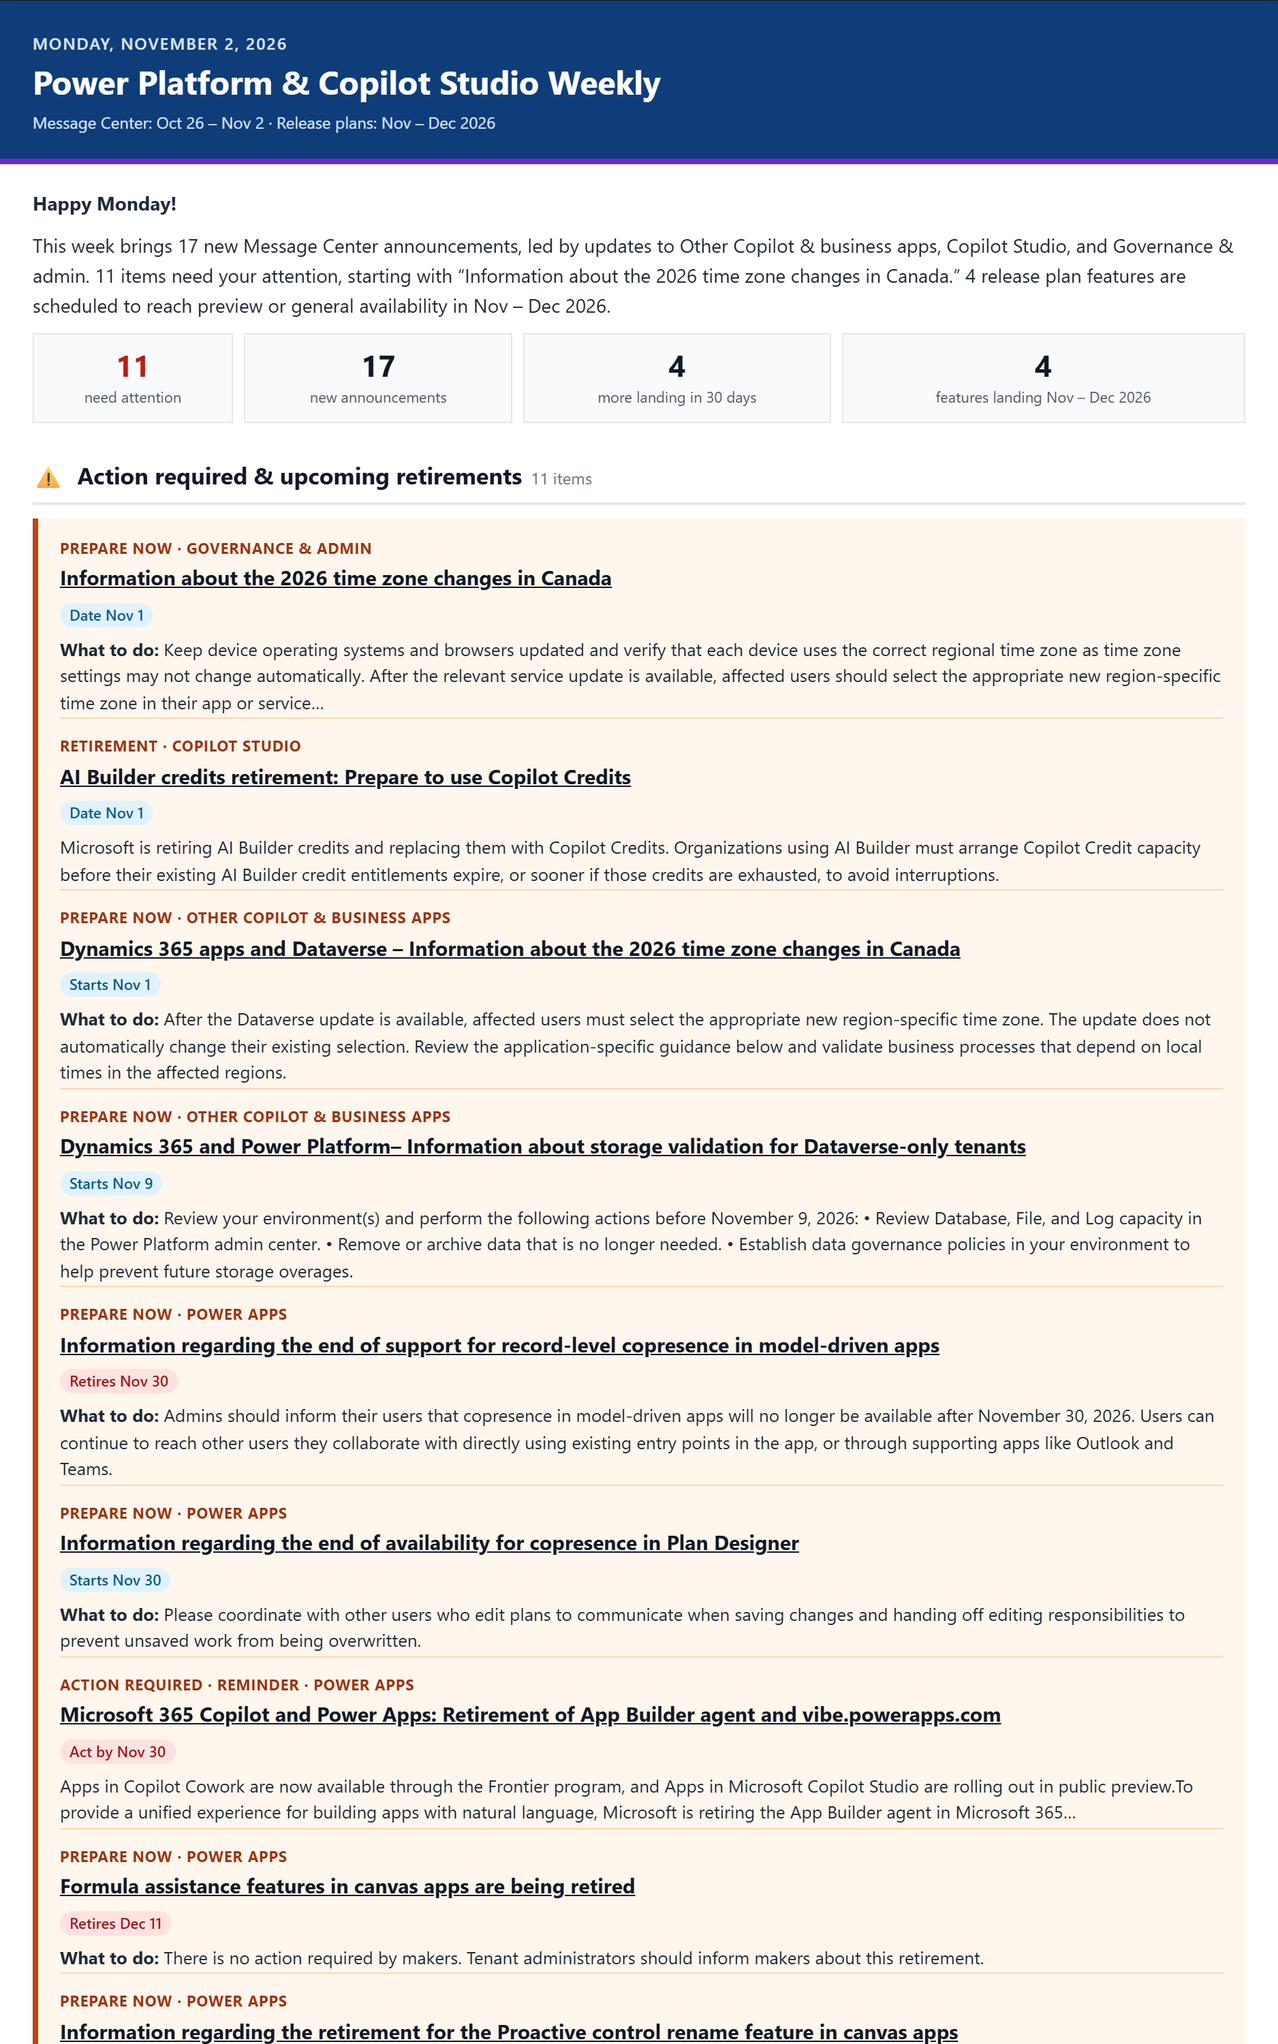
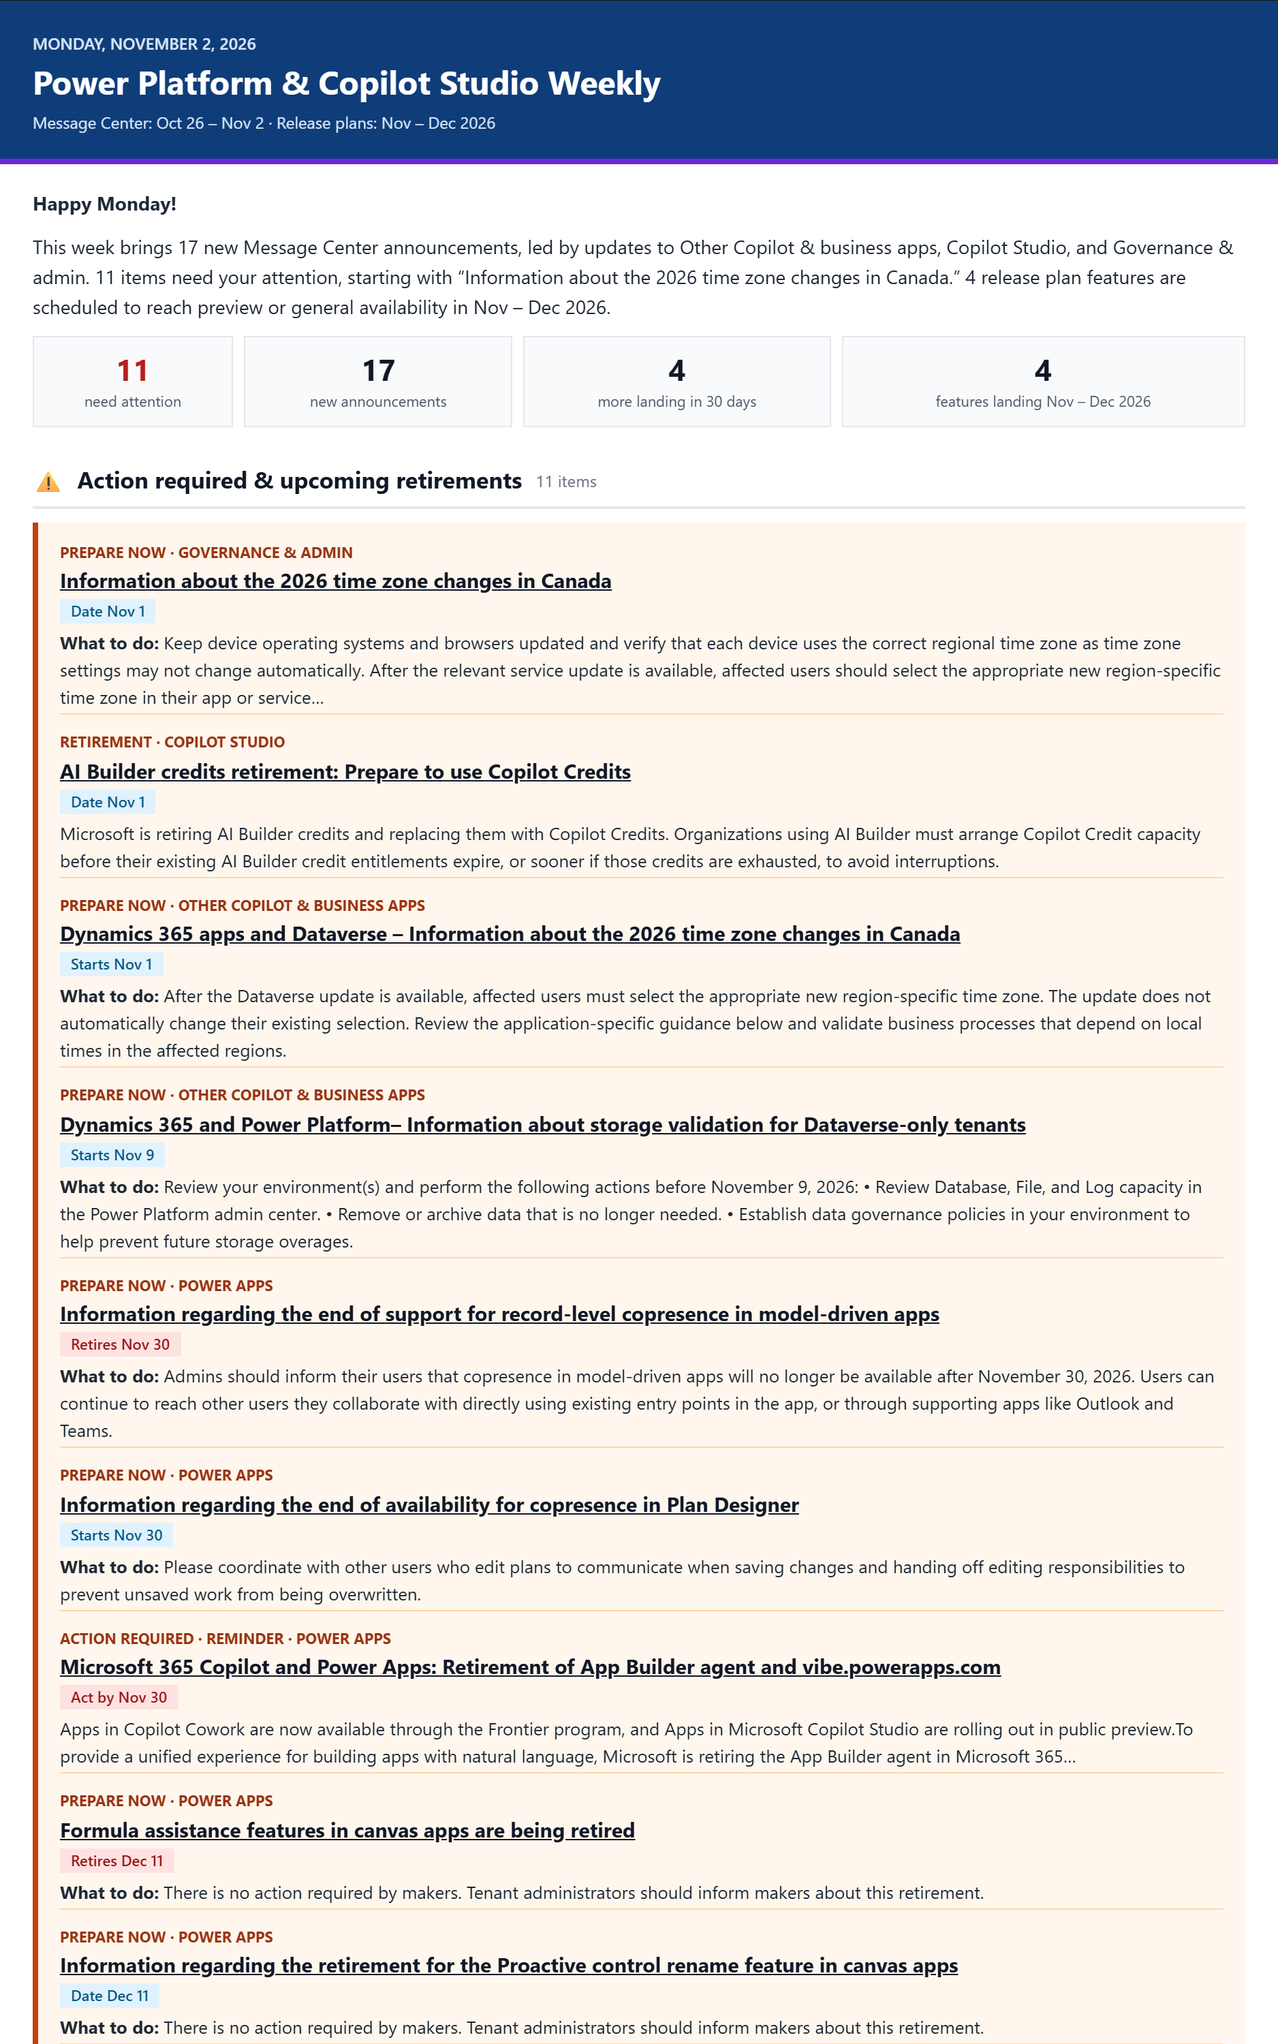
Make the briefing email survive Outlook paste: styles on table cells, color via font tags, chips as cells

diff --git a/static/briefing-email.js b/static/briefing-email.js
@@ -71,24 +71,54 @@
       ';text-decoration:underline;' + (extraStyle || '') + '">' + esc(label) + '</a>';
   }
 
-  function chip(label, kind) {
+  // Outlook's compose surface drops font-size, color, and letter-spacing from
+  // <div> and <span>, but keeps them on table cells. So every block of text
+  // lives in its own cell, color is repeated in a <font> tag, and chips are
+  // cells (not inline-block spans).
+  var BASE = 'font-family:' + FONT + ';mso-line-height-rule:exactly;';
+
+  function fontColor(css, inner) {
+    var all = String(css).match(/(?:^|;)\s*color:\s*(#[0-9a-f]{3,6})/gi);
+    if (!all) return inner;
+    var hex = /#[0-9a-f]{3,6}/i.exec(all[all.length - 1])[0];
+    return '<font color="' + hex + '">' + inner + '</font>';
+  }
+
+  function txt(css, inner, attrs) {
+    var style = String(css).replace(/margin-top:/g, 'padding-top:');
+    return '<table role="presentation" width="100%" cellspacing="0" cellpadding="0" border="0" style="border-collapse:collapse;">' +
+      '<tr><td' + (attrs || '') + ' style="' + BASE + style + '">' + fontColor(style, inner) + '</td></tr></table>';
+  }
+
+  function chip(label, kind, href) {
     var c = CHIP[kind || label] || CHIP.id;
-    return '<span style="display:inline-block;background-color:' + c.bg + ';color:' + c.fg +
-      ';font-size:11px;font-weight:600;line-height:16px;padding:1px 7px;margin:0 4px 2px 0;border-radius:9px;' +
-      'font-family:' + FONT + ';white-space:nowrap;">' + esc(label) + '</span>';
+    var text = esc(label);
+    if (href && url(href)) {
+      text = '<a href="' + esc(url(href)) + '" target="_blank" rel="noopener noreferrer" style="color:' + c.fg + ';text-decoration:none;">' + text + '</a>';
+    }
+    return '<td align="center" nowrap="nowrap" bgcolor="' + c.bg + '" style="' + BASE + 'background-color:' + c.bg +
+      ';color:' + c.fg + ';font-size:11px;font-weight:600;line-height:16px;padding:1px 8px;white-space:nowrap;">' +
+      fontColor('color:' + c.fg, text) + '</td>' +
+      '<td width="4" style="width:4px;font-size:0;line-height:0;">&nbsp;</td>';
+  }
+
+  function chipRow(cells) {
+    if (!cells) return '';
+    return '<table role="presentation" cellspacing="0" cellpadding="0" border="0" style="border-collapse:separate;"><tr>' + cells + '</tr></table>';
   }
 
   function p(html, style) {
-    return '<p style="margin:0 0 10px;font-size:14px;line-height:1.55;color:' + C.text + ';font-family:' + FONT +
-      ';mso-line-height-rule:exactly;' + (style || '') + '">' + html + '</p>';
+    return txt('padding-bottom:10px;font-size:14px;line-height:22px;color:' + C.text + ';' + (style || ''), html);
   }
 
   function sectionHeading(icon, title, note) {
-    return '<table role="presentation" width="100%" cellspacing="0" cellpadding="0" border="0" style="border-collapse:collapse;margin:26px 0 10px;">' +
-      '<tr><td style="border-bottom:2px solid ' + C.border + ';padding:0 0 6px;font-family:' + FONT + ';">' +
-      '<span style="font-size:17px;font-weight:700;color:' + C.strong + ';">' + icon + '&nbsp; ' + esc(title) + '</span>' +
-      (note ? '<span style="font-size:12px;color:' + C.soft + ';">&nbsp;&nbsp;' + esc(note) + '</span>' : '') +
-      '</td></tr></table>';
+    var edge = 'border-bottom:2px solid ' + C.border + ';padding:26px 0 6px;';
+    return '<table role="presentation" width="100%" cellspacing="0" cellpadding="0" border="0" style="border-collapse:collapse;">' +
+      '<tr><td nowrap="nowrap" style="' + BASE + edge + 'font-size:17px;font-weight:700;color:' + C.strong + ';">' +
+      fontColor('color:' + C.strong, icon + '&nbsp; ' + esc(title)) + '</td>' +
+      '<td width="100%" style="' + BASE + edge + 'padding-left:10px;font-size:12px;color:' + C.soft + ';">' +
+      (note ? fontColor('color:' + C.soft, esc(note)) : '&nbsp;') + '</td></tr></table>' +
+      '<table role="presentation" width="100%" cellspacing="0" cellpadding="0" border="0"><tr><td height="10" style="height:10px;font-size:0;line-height:0;">&nbsp;</td></tr></table>';
   }
 
   function calloutBox(bg, bar, inner) {
@@ -108,10 +138,9 @@
   function renderHeader(m) {
     return '<table role="presentation" width="100%" cellspacing="0" cellpadding="0" border="0" style="border-collapse:collapse;">' +
       '<tr><td bgcolor="' + C.headerBg + '" style="background-color:' + C.headerBg + ';padding:22px 24px 18px;font-family:' + FONT + ';">' +
-      '<div style="font-size:12px;font-weight:600;letter-spacing:0.08em;text-transform:uppercase;color:' + C.headerSub + ';">' +
-      esc(m.dateLabel) + '</div>' +
-      '<div style="font-size:24px;font-weight:700;line-height:1.25;color:' + C.headerText + ';margin-top:4px;">' + esc(m.headline) + '</div>' +
-      (m.coverageLabel ? '<div style="font-size:12px;color:' + C.headerSub + ';margin-top:6px;">' + esc(m.coverageLabel) + '</div>' : '') +
+      txt('font-size:12px;font-weight:600;color:' + C.headerSub + ';', esc(String(m.dateLabel).toUpperCase())) +
+      txt('font-size:24px;font-weight:700;line-height:30px;color:' + C.headerText + ';padding-top:4px;', esc(m.headline)) +
+      (m.coverageLabel ? txt('font-size:12px;color:' + C.headerSub + ';padding-top:6px;', esc(m.coverageLabel)) : '') +
       '</td></tr>' +
       '<tr><td height="4" bgcolor="' + C.accent + '" style="background-color:' + C.accent + ';height:4px;font-size:0;line-height:0;">&nbsp;</td></tr>' +
       '</table>';
@@ -129,15 +158,15 @@
       var cells = m.stats.map(function (s) {
         return '<td align="center" valign="top" bgcolor="' + C.statBg + '" style="background-color:' + C.statBg +
           ';border:1px solid ' + C.border + ';padding:10px 6px;font-family:' + FONT + ';">' +
-          '<div style="font-size:22px;font-weight:700;color:' + (s.color || C.strong) + ';line-height:1.1;">' + esc(s.value) + '</div>' +
-          '<div style="font-size:11px;color:' + C.muted + ';margin-top:3px;">' + esc(s.label) + '</div></td>';
+          txt('text-align:center;font-size:22px;font-weight:700;line-height:26px;color:' + (s.color || C.strong) + ';', esc(s.value), ' align="center"') +
+          txt('text-align:center;font-size:11px;color:' + C.muted + ';padding-top:3px;', esc(s.label), ' align="center"') + '</td>';
       });
       var spaced = [];
       cells.forEach(function (c, i) {
         if (i) spaced.push('<td width="8" style="width:8px;font-size:0;">&nbsp;</td>');
         spaced.push(c);
       });
-      html += '<table role="presentation" width="100%" cellspacing="0" cellpadding="0" border="0" style="border-collapse:separate;margin:6px 0 4px;">' +
+      html += '<table role="presentation" width="100%" cellspacing="0" cellpadding="0" border="0" style="border-collapse:separate;">' +
         '<tr>' + spaced.join('') + '</tr></table>';
     }
     return html;
@@ -149,13 +178,13 @@
       var reason = item.actionReason === 'deadline' ? 'Action required'
         : item.actionReason === 'retirement' ? 'Retirement'
           : item.actionReason === 'pinned' ? 'Recommended' : 'Prepare now';
+      var label = reason + (item.carried ? ' · Reminder' : '') + (item.areaInfo ? ' · ' + item.areaInfo.label : '');
       return '<tr><td style="padding:' + (i ? '12px' : '2px') + ' 0 2px;' + (i ? 'border-top:1px solid #fed7aa;' : '') + 'font-family:' + FONT + ';">' +
-        '<div style="font-size:11px;font-weight:700;letter-spacing:0.04em;text-transform:uppercase;color:' + C.actionText + ';">' +
-        esc(reason) + (item.carried ? ' · Reminder' : '') + (item.areaInfo ? ' · ' + esc(item.areaInfo.label) : '') + '</div>' +
-        '<div style="font-size:15px;font-weight:700;color:' + C.strong + ';margin:2px 0 4px;">' + link(item.href, item.cleanTitle || item.title, 'color:' + C.strong + ';') + '</div>' +
-        (item.keyDates && item.keyDates.length ? '<div style="margin:0 0 4px;">' + dateChips(item) + '</div>' : '') +
-        '<div style="font-size:13px;line-height:1.5;color:' + C.text + ';">' +
-        (item.actionText ? '<strong>What to do:</strong> ' + esc(item.actionText) : esc(item.summary)) + '</div>' +
+        txt('font-size:11px;font-weight:700;color:' + C.actionText + ';', esc(label.toUpperCase())) +
+        txt('font-size:15px;font-weight:700;line-height:20px;color:' + C.strong + ';padding:2px 0 4px;', link(item.href, item.cleanTitle || item.title, 'color:' + C.strong + ';')) +
+        (item.keyDates && item.keyDates.length ? txt('padding-bottom:4px;', chipRow(dateChips(item))) : '') +
+        txt('font-size:13px;line-height:20px;color:' + C.text + ';',
+          item.actionText ? '<strong>What to do:</strong> ' + esc(item.actionText) : esc(item.summary)) +
         '</td></tr>';
     }).join('');
     return sectionHeading('⚠', 'Action required & upcoming retirements', m.actions.length + (m.actions.length === 1 ? ' item' : ' items')) +
@@ -166,9 +195,10 @@
   function renderHighlights(m) {
     if (!m.highlights || !m.highlights.length) return '';
     var rows = m.highlights.map(function (h) {
-      return '<tr><td valign="top" width="18" style="width:18px;padding:3px 0;font-size:14px;color:' + C.highlightBar + ';font-family:' + FONT + ';">★</td>' +
-        '<td valign="top" style="padding:3px 0;font-size:14px;line-height:1.5;color:' + C.text + ';font-family:' + FONT + ';">' +
-        esc(h.text) + (url(h.href) ? ' ' + link(h.href, 'Details') : '') + '</td></tr>';
+      return '<tr><td valign="top" width="18" style="width:18px;padding:3px 0;font-size:14px;color:' + C.highlightBar + ';font-family:' + FONT + ';">' +
+        fontColor('color:' + C.highlightBar, '★') + '</td>' +
+        '<td valign="top" style="padding:3px 0;font-size:14px;line-height:21px;color:' + C.text + ';font-family:' + FONT + ';">' +
+        fontColor('color:' + C.text, esc(h.text) + (url(h.href) ? ' ' + link(h.href, 'Details') : '')) + '</td></tr>';
     }).join('');
     return sectionHeading('✨', 'Top highlights') +
       calloutBox(C.highlightBg, C.highlightBar,
@@ -181,12 +211,12 @@
       var bg = i % 2 ? '#f9fafb' : '#ffffff';
       return '<tr>' +
         '<td valign="top" nowrap="nowrap" bgcolor="' + bg + '" style="background-color:' + bg + ';padding:7px 10px;border-bottom:1px solid ' + C.border +
-        ';font-size:13px;font-weight:700;color:' + C.strong + ';white-space:nowrap;font-family:' + FONT + ';">' + esc(d.dateLabel) +
-        (d.past ? '<div style="font-size:11px;font-weight:400;color:' + C.soft + ';">just passed</div>' : '') + '</td>' +
-        '<td valign="top" nowrap="nowrap" bgcolor="' + bg + '" style="background-color:' + bg + ';padding:7px 6px;border-bottom:1px solid ' + C.border + ';font-family:' + FONT + ';">' + chip(d.label) + '</td>' +
+        ';font-size:13px;font-weight:700;color:' + C.strong + ';white-space:nowrap;font-family:' + FONT + ';">' + fontColor('color:' + C.strong, esc(d.dateLabel)) +
+        (d.past ? txt('font-size:11px;font-weight:400;color:' + C.soft + ';', 'just passed') : '') + '</td>' +
+        '<td valign="top" nowrap="nowrap" bgcolor="' + bg + '" style="background-color:' + bg + ';padding:7px 6px;border-bottom:1px solid ' + C.border + ';font-family:' + FONT + ';">' + chipRow(chip(d.label)) + '</td>' +
         '<td valign="top" bgcolor="' + bg + '" style="background-color:' + bg + ';padding:7px 10px;border-bottom:1px solid ' + C.border +
-        ';font-size:13px;line-height:1.45;color:' + C.text + ';font-family:' + FONT + ';">' + link(d.href, d.title) +
-        (d.areaInfo ? '<div style="font-size:11px;color:' + C.soft + ';">' + esc(d.areaInfo.label) + '</div>' : '') + '</td></tr>';
+        ';font-size:13px;line-height:19px;color:' + C.text + ';font-family:' + FONT + ';">' + fontColor('color:' + C.text, link(d.href, d.title)) +
+        (d.areaInfo ? txt('font-size:11px;color:' + C.soft + ';', esc(d.areaInfo.label)) : '') + '</td></tr>';
     }).join('');
     return sectionHeading('📅', 'Key dates', m.keyDatesNote || '') +
       '<table role="presentation" width="100%" cellspacing="0" cellpadding="0" border="0" style="border-collapse:collapse;border-top:1px solid ' + C.border + ';">' +
@@ -196,20 +226,22 @@
   function renderMessageGroups(groups) {
     var html = '';
     groups.forEach(function (group) {
-      html += '<div style="font-size:13px;font-weight:700;color:' + group.area.color + ';margin:14px 0 4px;font-family:' + FONT + ';">' +
-        esc(group.area.label) + '</div>';
+      html += txt('font-size:13px;font-weight:700;color:' + group.area.color + ';padding-top:14px;padding-bottom:4px;', esc(group.area.label));
       html += '<table role="presentation" width="100%" cellspacing="0" cellpadding="0" border="0" style="border-collapse:collapse;">';
       group.items.forEach(function (item) {
         var chips = '';
         if (item.isMajor) chips += chip('Major', 'Major');
         if (item.updated) chips += chip('Updated', 'Updated');
         chips += dateChips(item);
-        chips += item.href ? '<a href="' + esc(url(item.href)) + '" target="_blank" rel="noopener noreferrer" style="text-decoration:none;">' + chip(item.id, 'id') + '</a>' : chip(item.id, 'id');
+        chips += chip(item.id, 'id', item.href);
+        if (url(item.learnUrl)) {
+          chips += '<td nowrap="nowrap" style="' + BASE + 'font-size:12px;padding-left:4px;">' + link(item.learnUrl, 'Learn more', 'font-size:12px;') + '</td>';
+        }
         html += '<tr><td width="3" bgcolor="' + group.area.color + '" style="background-color:' + group.area.color + ';width:3px;font-size:0;line-height:0;">&nbsp;</td>' +
           '<td style="padding:8px 0 10px 12px;border-bottom:1px solid ' + C.border + ';font-family:' + FONT + ';">' +
-          '<div style="font-size:14px;font-weight:600;line-height:1.4;color:' + C.strong + ';">' + link(item.href, item.cleanTitle || item.title, 'color:' + C.strong + ';text-decoration:none;') + '</div>' +
-          (item.summary ? '<div style="font-size:13px;line-height:1.5;color:' + C.muted + ';margin:2px 0 5px;">' + esc(item.summary) + '</div>' : '') +
-          '<div>' + chips + (url(item.learnUrl) ? '&nbsp;' + link(item.learnUrl, 'Learn more', 'font-size:12px;') : '') + '</div>' +
+          txt('font-size:14px;font-weight:600;line-height:20px;color:' + C.strong + ';', link(item.href, item.cleanTitle || item.title, 'color:' + C.strong + ';text-decoration:none;')) +
+          (item.summary ? txt('font-size:13px;line-height:20px;color:' + C.muted + ';padding:2px 0 5px;', esc(item.summary)) : '') +
+          chipRow(chips) +
           '</td></tr>';
       });
       html += '</table>';
@@ -242,7 +274,7 @@
       return '<tr><td valign="top" width="22" style="width:22px;padding:3px 0;font-size:13px;font-family:' + FONT + ';">' + icon + '</td>' +
         '<td valign="top" style="padding:3px 0;font-size:13px;line-height:1.45;color:' + C.text + ';font-family:' + FONT + ';">' +
         '<strong>' + esc(label) + ':</strong> ' + link(e.url, e.name) +
-        (e.product ? ' <span style="color:' + C.soft + ';">(' + esc(e.product) + ')</span>' : '') +
+        (e.product ? ' <font color="' + C.soft + '">(' + esc(e.product) + ')</font>' : '') +
         (e.detail ? ' — ' + esc(e.detail) : '') + '</td></tr>';
     }).join('');
     return rows;
@@ -276,8 +308,7 @@
     };
     var html = sectionHeading('🗺', 'Coming soon', m.featuresNote || '');
     m.featureGroups.forEach(function (group) {
-      html += '<div style="font-size:13px;font-weight:700;color:' + group.area.color + ';margin:14px 0 6px;font-family:' + FONT + ';">' +
-        esc(group.area.label) + '</div>';
+      html += txt('font-size:13px;font-weight:700;color:' + group.area.color + ';padding-top:14px;padding-bottom:6px;', esc(group.area.label));
       html += '<table role="presentation" width="100%" cellspacing="0" cellpadding="0" border="0" style="border-collapse:collapse;border:1px solid ' + C.border + ';">' +
         '<tr>' + th('Feature', '38%') + th('When', '17%') + th('Why it matters') + '</tr>';
       group.items.forEach(function (f, i) {
@@ -287,8 +318,8 @@
             ';font-size:13px;line-height:1.45;color:' + C.text + ';font-family:' + FONT + ';' + (extra || '') + '">' + inner + '</td>';
         };
         html += '<tr>' +
-          td((f.badge ? chip(f.badge) : '') + link(f.url, f.name, 'font-weight:600;') +
-            (f.productArea ? '<div style="font-size:11px;color:' + C.soft + ';">' + esc(f.productArea) + '</div>' : '')) +
+          td((f.badge ? chipRow(chip(f.badge)) : '') + link(f.url, f.name, 'font-weight:600;') +
+            (f.productArea ? txt('font-size:11px;color:' + C.soft + ';', esc(f.productArea)) : '')) +
           td(esc(f.phaseLabel), 'white-space:nowrap;') +
           td(esc(f.benefit || '')) +
           '</tr>';
@@ -305,7 +336,7 @@
     var rows = list.map(function (r) {
       return '<tr><td valign="top" width="18" style="width:18px;padding:3px 0;font-size:14px;color:' + C.link + ';font-family:' + FONT + ';">›</td>' +
         '<td style="padding:3px 0;font-size:14px;line-height:1.45;font-family:' + FONT + ';">' + link(r.url, r.label) +
-        (r.note ? ' <span style="color:' + C.soft + ';font-size:12px;">— ' + esc(r.note) + '</span>' : '') + '</td></tr>';
+        (r.note ? ' <font color="' + C.soft + '">— ' + esc(r.note) + '</font>' : '') + '</td></tr>';
     }).join('');
     return sectionHeading('📚', 'Resources') +
       '<table role="presentation" width="100%" cellspacing="0" cellpadding="0" border="0" style="border-collapse:collapse;">' + rows + '</table>';
@@ -340,8 +371,8 @@
     }
     html += '<table role="presentation" width="100%" cellspacing="0" cellpadding="0" border="0" style="border-collapse:collapse;margin-top:8px;">' +
       '<tr><td style="border-top:1px solid ' + C.border + ';padding:14px 0 0;font-family:' + FONT + ';">' +
-      (s.name ? '<div style="font-size:15px;font-weight:700;color:' + C.strong + ';">' + esc(s.name) + '</div>' : '') +
-      lines.map(function (l) { return '<div style="font-size:13px;line-height:1.5;color:' + C.muted + ';">' + l + '</div>'; }).join('') +
+      (s.name ? txt('font-size:15px;font-weight:700;color:' + C.strong + ';', esc(s.name)) : '') +
+      lines.map(function (l) { return txt('font-size:13px;line-height:20px;color:' + C.muted + ';', l); }).join('') +
       buttonRow + '</td></tr></table>';
     return html;
   }
